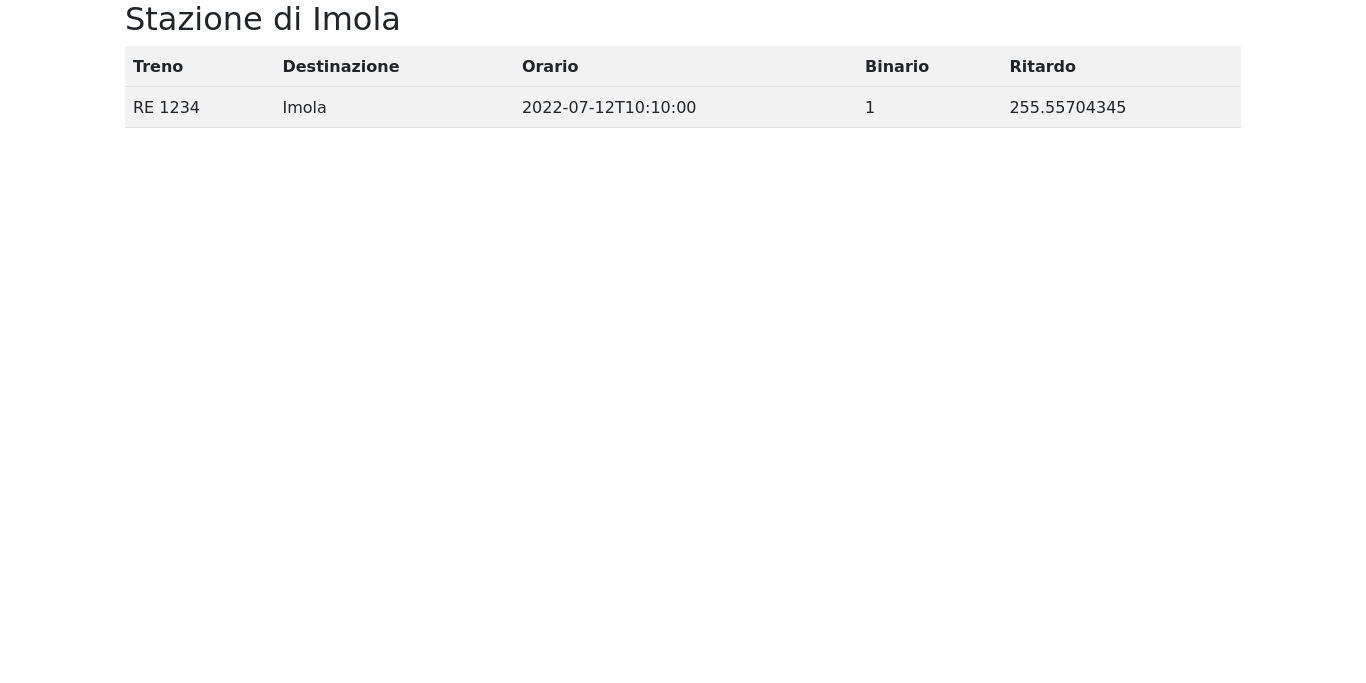
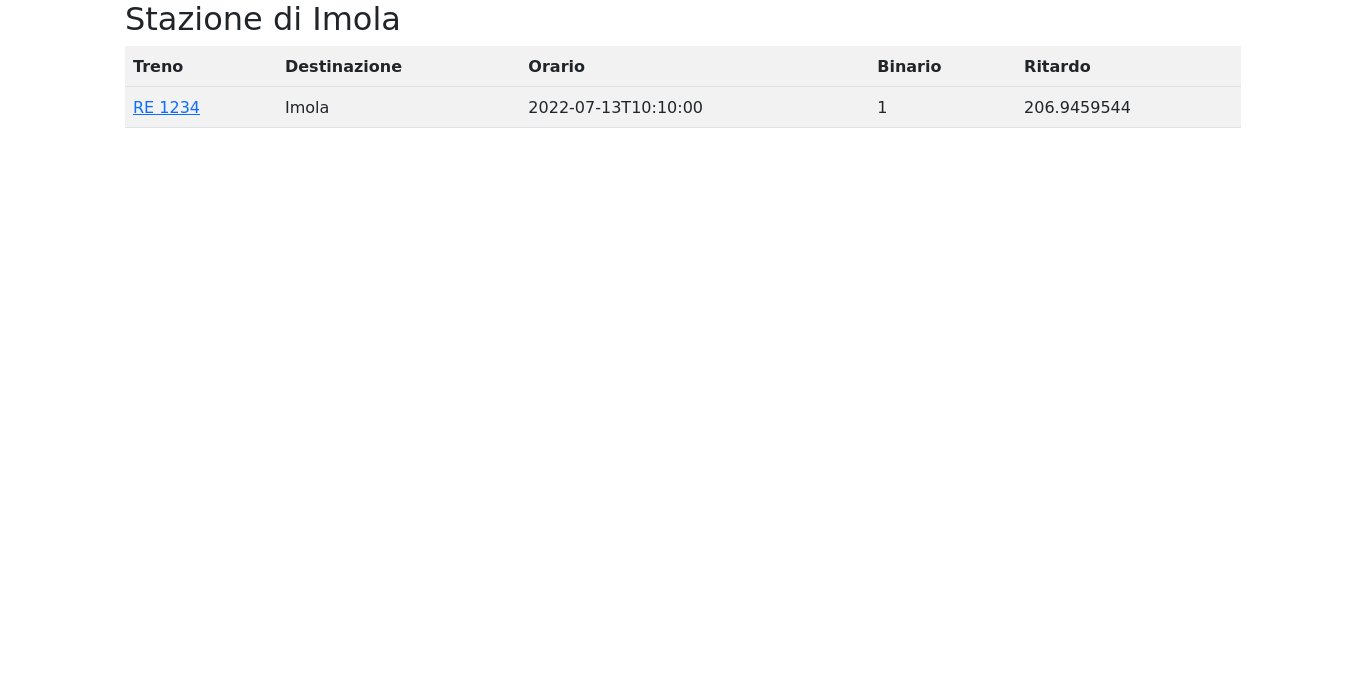
bettered

diff --git a/report/report.tex b/report/report.tex
@@ -111,14 +111,16 @@
 	Nella pagina di inserimento, per ogni tabella, si puo compilare un form per inserire una riga alla tabella.
 	Per foreign key presenti nella tabella, vengono suggeriti i valori da inserire.
 	\subsection{Ricerca}
-	\includegraphics[width=\linewidth]{res/screenshots/inserisci.png}
+	\includegraphics[width=\linewidth]{res/screenshots/lista.png}
 	Nella pagina di ricerca viene visualizzata la tabella interessata.
 	E' possibile eseguire una ricerca per una qualsiasi colonna della tabella.
 	\subsection{Ricerca stazione}
 	\includegraphics[width=\linewidth]{res/screenshots/stazione.png}
 	Nella pagina relativa alla ricerca della stazione si puo vedere la lista dei treni che passano dalla stazione e alcune informazioni relative ad essi.
+	Se si clicca sul numero del treno, si va alla pagina dello stato del treno nel giorno corrente.
 	\subsection{Ricerca treno}
 	\includegraphics[width=\linewidth]{res/screenshots/stato_treno.png}
-	Nella pagina relativa alla ricerca del treno si possono vedere informazioni relative allo stato del treno.
+	Nella pagina relativa alla ricerca del treno si possono vedere informazioni logistiche relative allo stato del treno.
+	E' anche presente un link che manda a una pagina per visualizzare la composizione del treno stesso.
     %\printbibliography[heading=bibintoc]
 \end{document}
